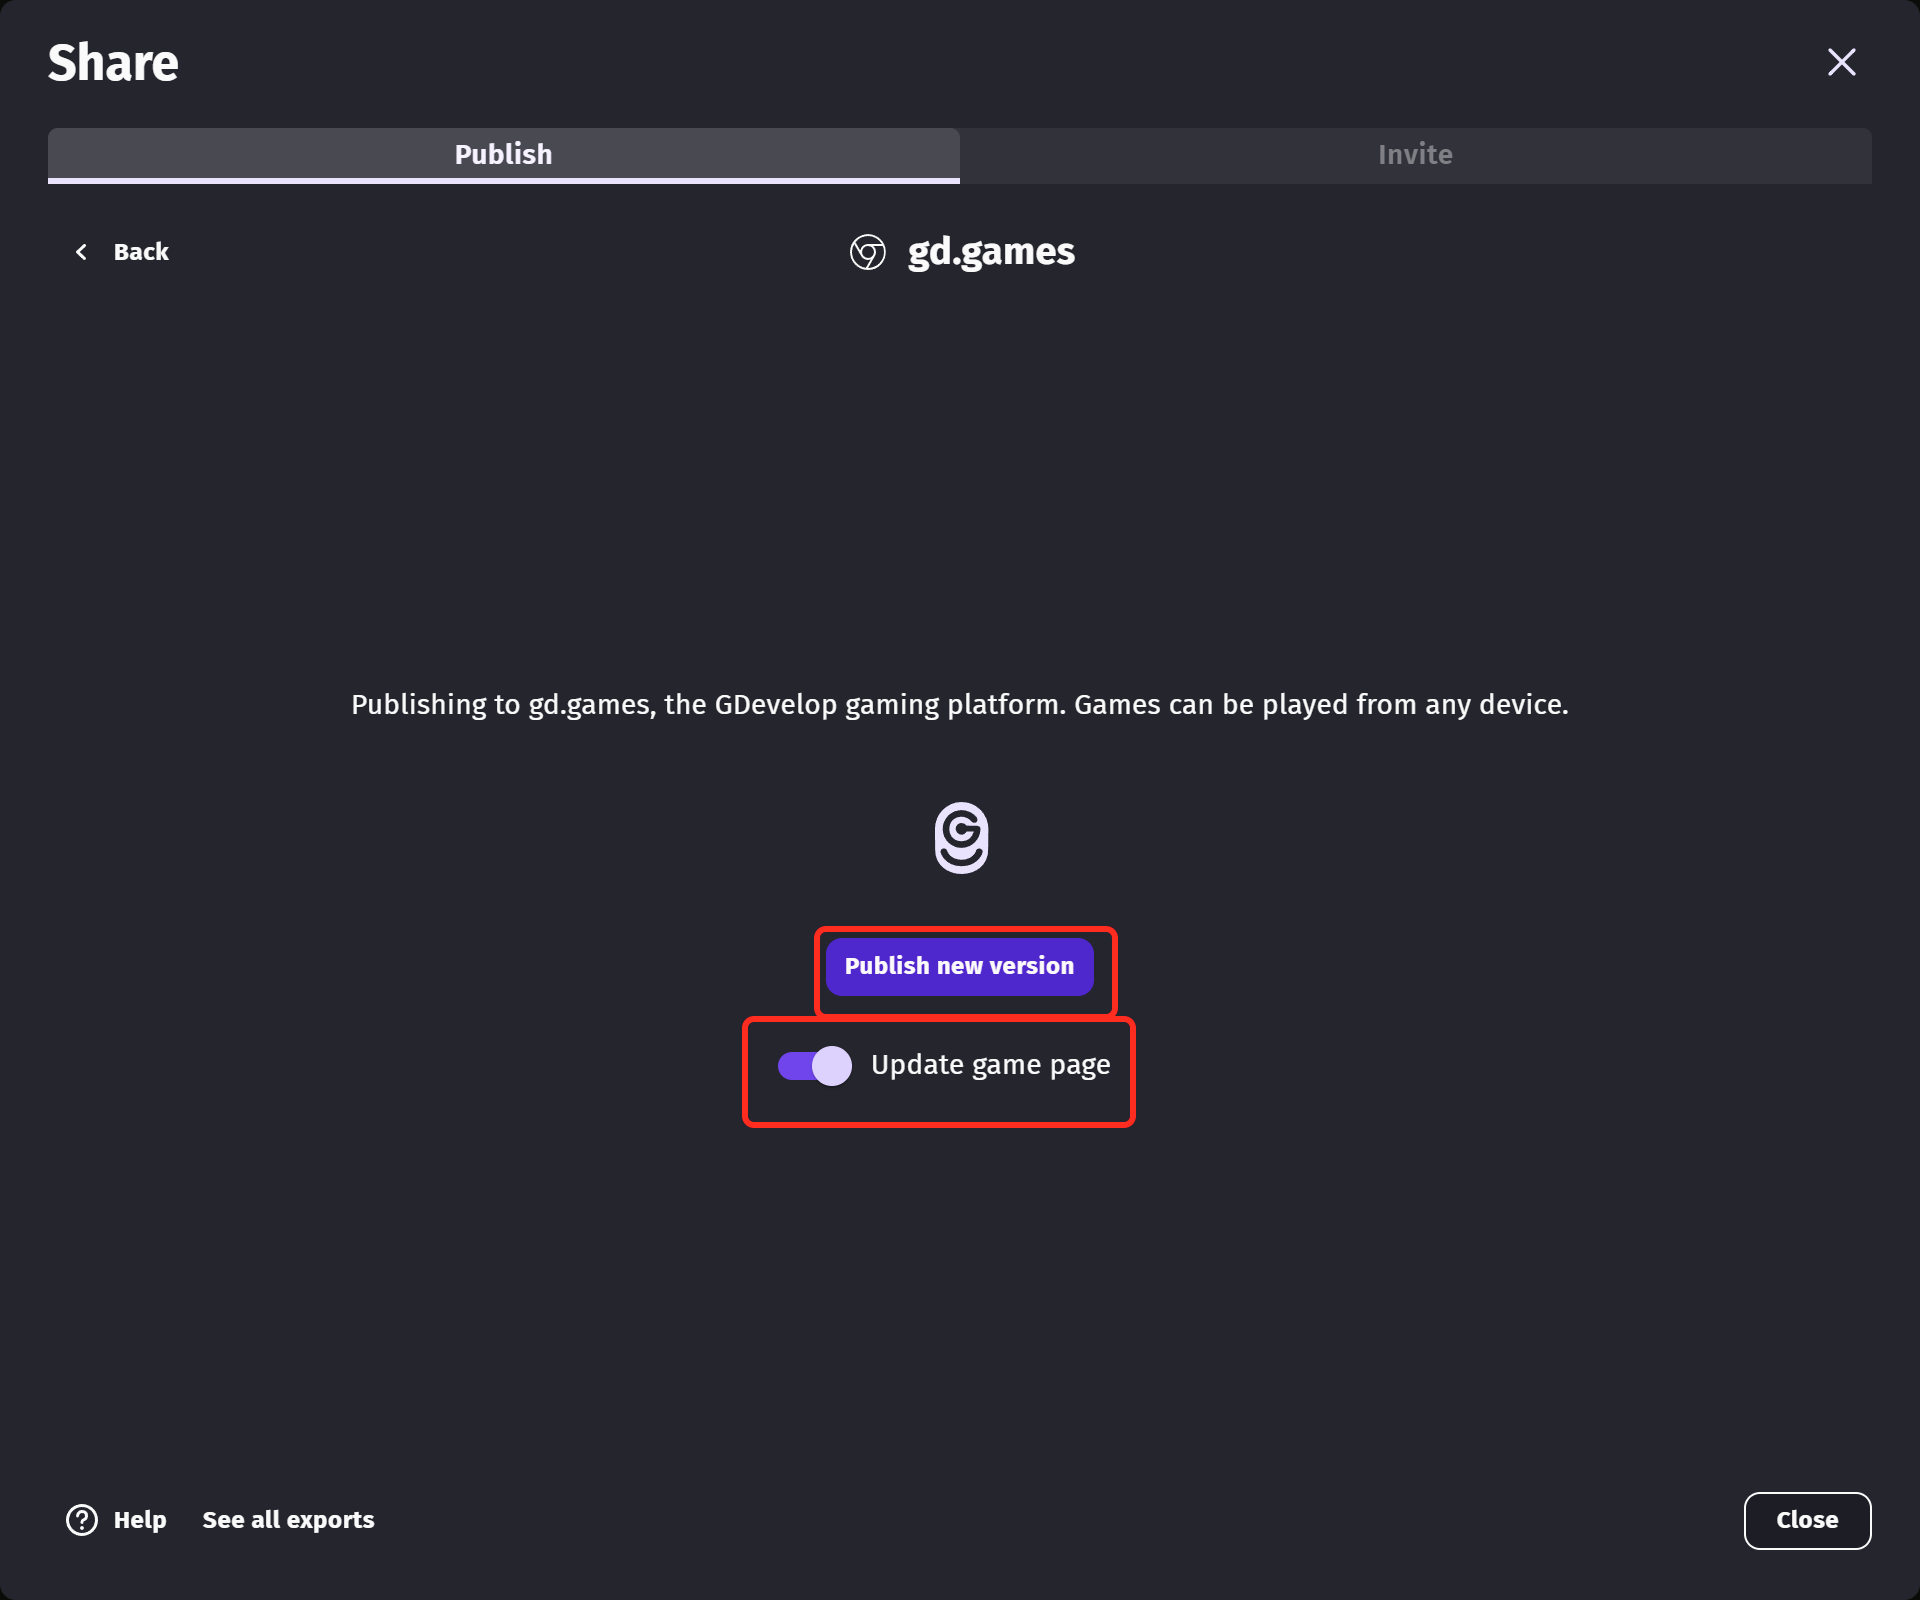
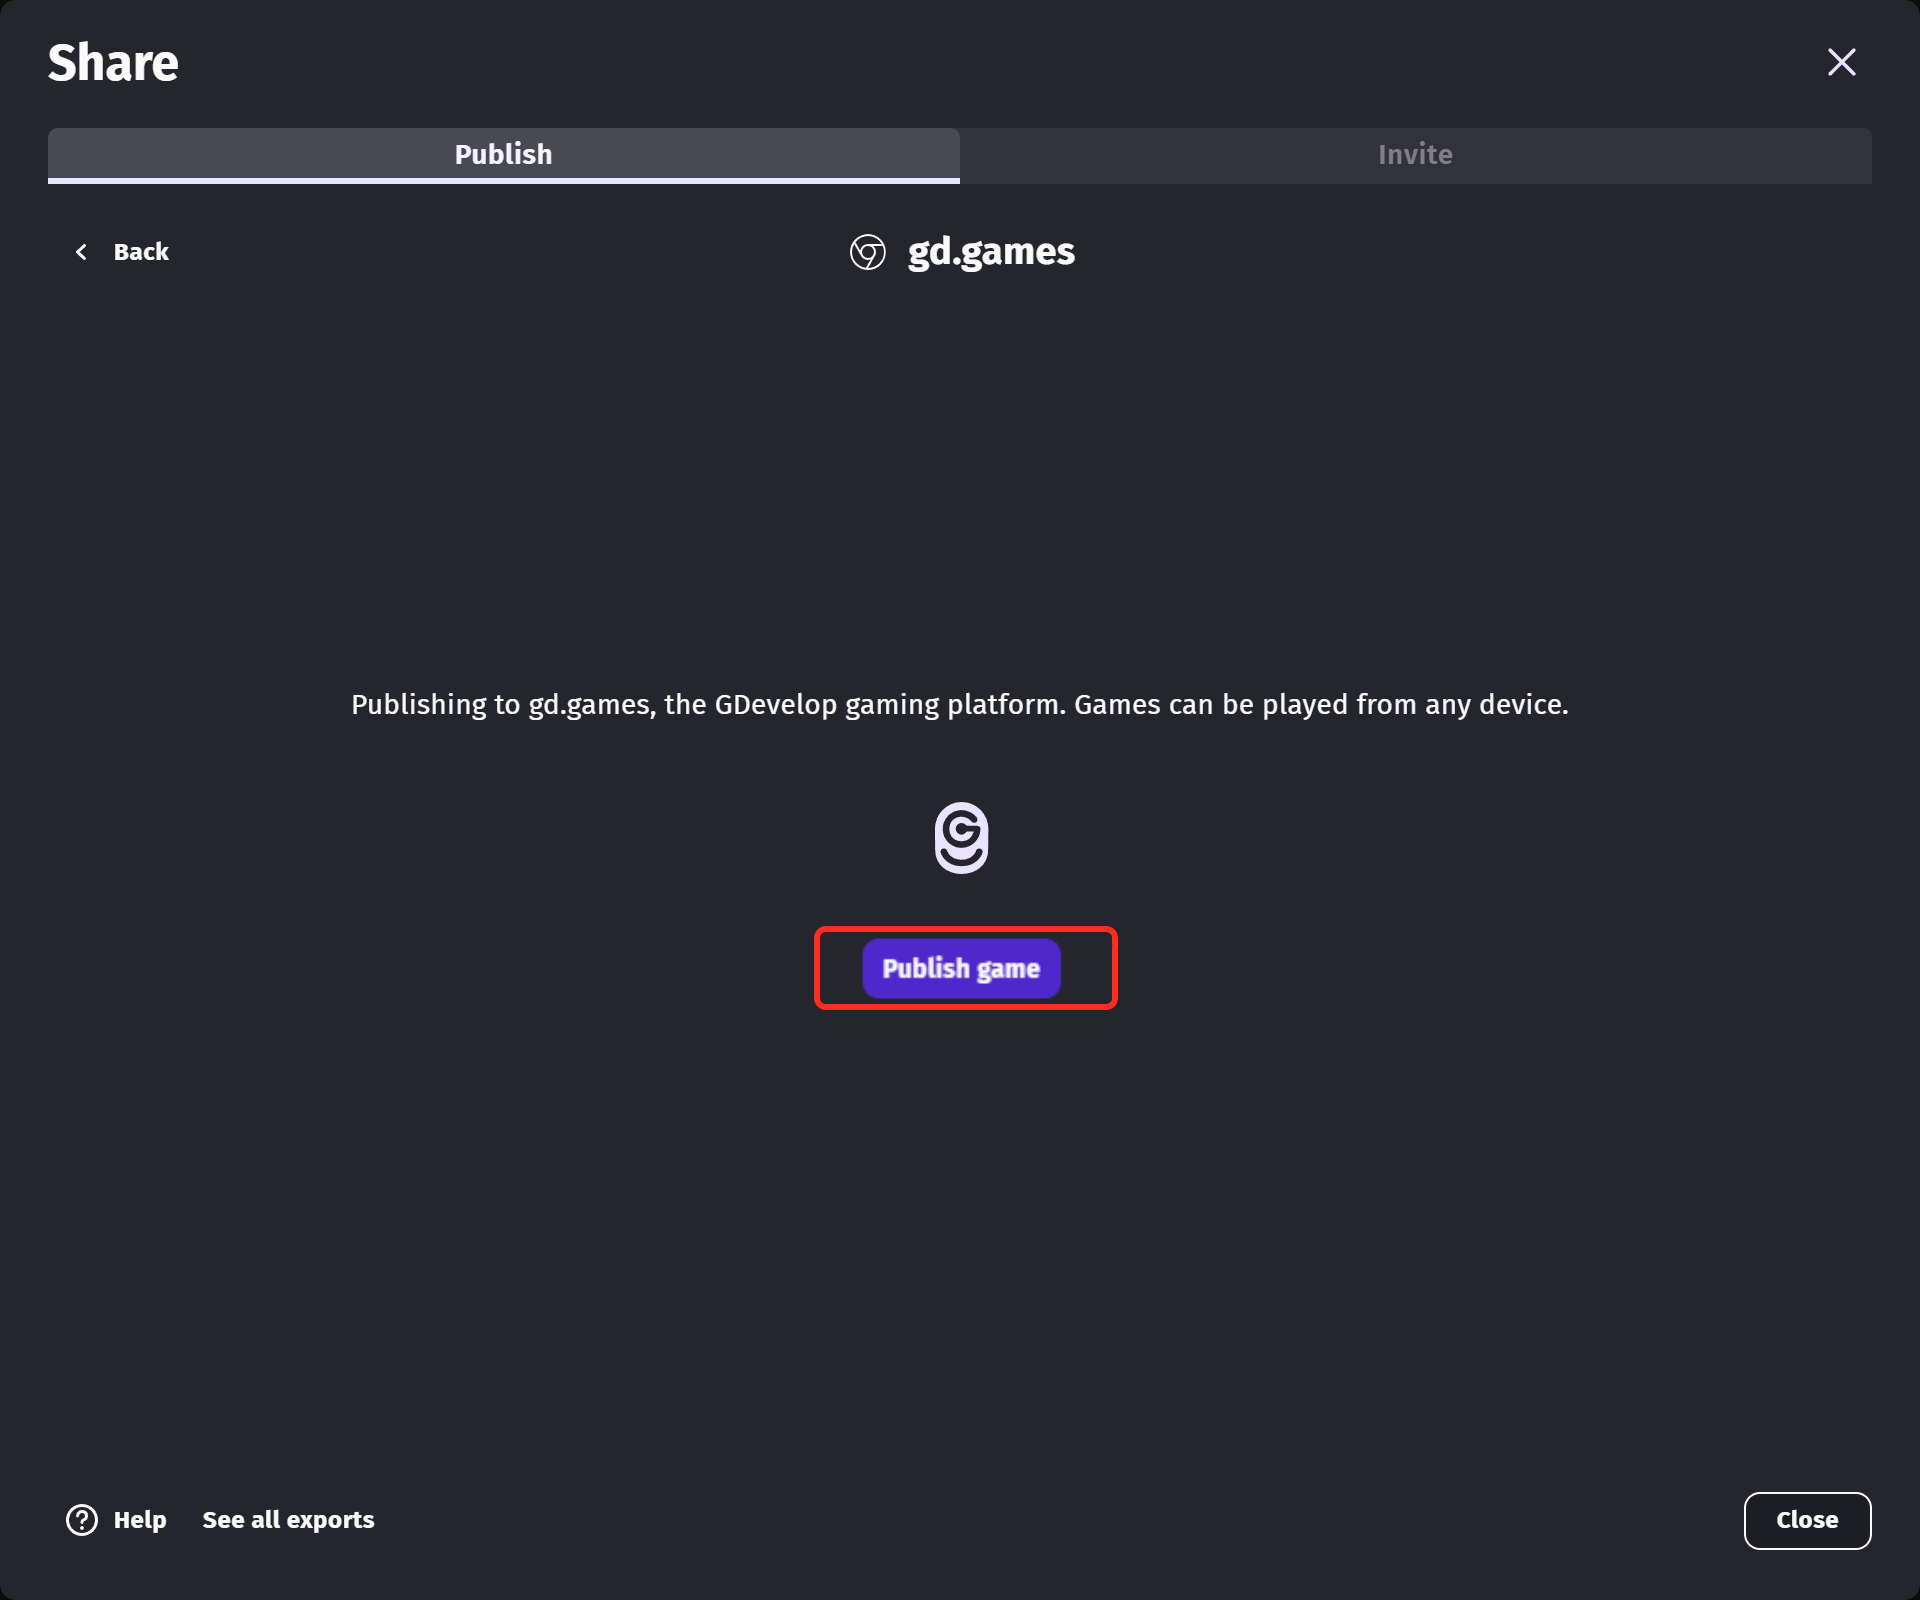
fix

Changed region(s): [[0.375, 0.5625, 0.5938, 0.7188]]

diff --git a/docs/gdevelop5/publishing/web.md b/docs/gdevelop5/publishing/web.md
@@ -1,55 +1,71 @@
 ---
-title: Creating a private web link
+title: Publishing your game on gd.games
 ---
 
-## Creating a private web link
+# Publishing your game on gd.games
 
-Using GDevelop hosting servers, you can export your game for publication on the web. These servers are backed by Amazon's robust services. Sharing your game this way is free, and your game will be available through this link indefinitely!
+[gd.games](https://gd.games) is GDevelop's own game platform: GDevelop hosts your game for you, and players play it in their browser, on a computer or a phone.
 
-First make sure you have logged in within GDevelop. To upload to the servers, click the **Share** button at the top of the editor, then pick **gd.games** in the list of exports.
+Publishing there is free, your game gets a link you can share with anyone, and that link stays available. You don't need a website or a server: everything happens from the editor.
+
+## Publishing your game
+
+First, make sure you are logged in to GDevelop. Then click the **Share** button at the top of the editor, and pick **gd.games** in the list of exports.
 
 ![The Share dialog, with gd.games at the top of the list of exports](/gdevelop5/publishing/web/share-dialog.png)
 
-Click **Publish new version** to build your game and send it to the servers. If you only want a link to share privately, turn **Update game page** off before publishing: your game is uploaded and you get a link for it, while the public page on gd.games keeps the version that is already online.
+Click **Publish game** to build your game and send it to the servers.
 
-![The gd.games export screen, with the Publish new version button](/gdevelop5/publishing/web/gdgames-publish-new-version.png)
+![The gd.games export screen, with the Publish game button](/gdevelop5/publishing/web/gdgames-publish-new-version.png)
 
-When the upload is finished, the link to your game is displayed on screen. You can copy it, scan the QR code to open the game on a phone, or send it through social networks. Anyone with the link can play your game, so share it with the people you want to test it.
+When the upload is finished, the link to your game is displayed on screen. You can copy it, scan the QR code to open the game on a phone, or send it through social networks. Anyone with the link can play your game.
 
 ![The link to the game, with a QR code and sharing buttons](/gdevelop5/publishing/web/share-your-game.png)
 
-## Publishing on gd.games
+## Sharing a private version for testing
 
-gd.games is GDevelop's game hosting platform, where free games created with GDevelop can be shared and played. When **Update game page** is on, the version you publish becomes the one played on your game page, and the game is listed on the platform.
+Once your game has been published a first time, the export screen offers a new choice: the button becomes **Publish new version**, with an **Update game page** switch under it.
+
+![The gd.games export screen, with the Publish new version button and the Update game page switch](/gdevelop5/publishing/web/gdgames-publish-new-version-with-update.png)
+
+This switch decides whether the version you are publishing replaces the one on your public game page:
+
+- **On**: the version you publish becomes the one everyone plays on your game page.
+- **Off**: your game page keeps the version it already had, and you get a separate link for the version you just published.
+
+Turn it off to share a work-in-progress with testers without changing what your players see.
+
+## Your game page on gd.games
+
+
+Each game you publish has its own dashboard. Open it with **Open Game dashboard** right after an export, or from the project manager under **Game settings**. It gathers the link to your game, its analytics, the feedback you receive from players, and the GDevelop services your game can use, like leaderboards, multiplayer, etc.
 
 !!! tip
 
-    Games published can be promoted on gd.games homepage, checkout the [Marketing Campaigns](/gdevelop5/interface/games-dashboard/marketing)!
-
-Every game you publish is followed on its own dashboard, which you reach with **Open Game dashboard** right after an export, or from the project manager under **Game settings**. It gathers the link to your game, its player analytics and the feedback you receive.
+    Your game can be promoted on the gd.games homepage. See the [Marketing Campaigns](/gdevelop5/interface/games-dashboard/marketing) to learn how.
 
 ![The dashboard of a game, with its link and its analytics](/gdevelop5/publishing/web/game-dashboard.png)
 
-Each upload creates a build, and the dashboard lists all of them under **Exports**. The build currently played on your game page is marked as online: to put another one back in front of your players, turn on **Publish this build on gd.games** on the build of your choice.
+Each upload creates a build, and the dashboard lists all of them under **Exports** at bottom of a dashboard. The build played on your game page is marked as online. To put an older build back in front of your players, turn on **Publish this build on gd.games**.
 
 ![The list of the builds of a game, with the build currently online](/gdevelop5/publishing/web/game-builds.png)
 
+## Adding a thumbnail
+
+A thumbnail in 16:9 makes your game far more attractive on gd.games, and we recommend adding one.
+
+Open **Edit details** from the game dashboard, then click **Select thumbnail** or **Change a thumbnail**. This is also where you write the name and the description shown to players on your game page.
+
+![The game details, with the thumbnail of the game and the Change thumbnail button](/gdevelop5/publishing/web/game-thumbnail.png)
+
 ## Taking your game off gd.games
 
-If you want to take your game off of gd.games for any reason, open **Edit details** from the game dashboard and turn **Publish game on gd.games** off. Your builds and your analytics are kept, only the public page disappears.
+To remove your game from gd.games, open **Edit details** from the game dashboard and turn **Publish game on gd.games** off. Your builds and your analytics are kept: only the public page disappears.
 
-The **Visibility** setting is a middle ground: your game page stays online for the people who have the link, but the game is no longer displayed in the search results nor on your profile.
+The **Visibility** setting is a middle ground. Your game page stays online for the people who have the link, but the game is no longer shown in the search results nor on your profile.
 
 ![The publishing settings of a game, with the switch to publish it on gd.games](/gdevelop5/publishing/web/game-details-publishing.png)
 
 ## Export to other platforms (iOS, Android, Windows, macOS, Linux)
 
-See the [other export options](/gdevelop5/publishing) to learn how to publish your game on other platforms!
-
-## Setup a thumbnail for gd.games
-
-A 16:9 ratio thumbnail is highly recommended to your game on gd.games, the game will be more attractive.
-
-To set up the thumbnail, open **Edit details** from the game dashboard and click on **Change thumbnail**. It is also the place where you write the name and the description shown to the players on your game page.
-
-![The game details, with the thumbnail of the game and the Change thumbnail button](/gdevelop5/publishing/web/game-thumbnail.png)
+See the [other export options](/gdevelop5/publishing) to learn how to publish your game on other platforms.
